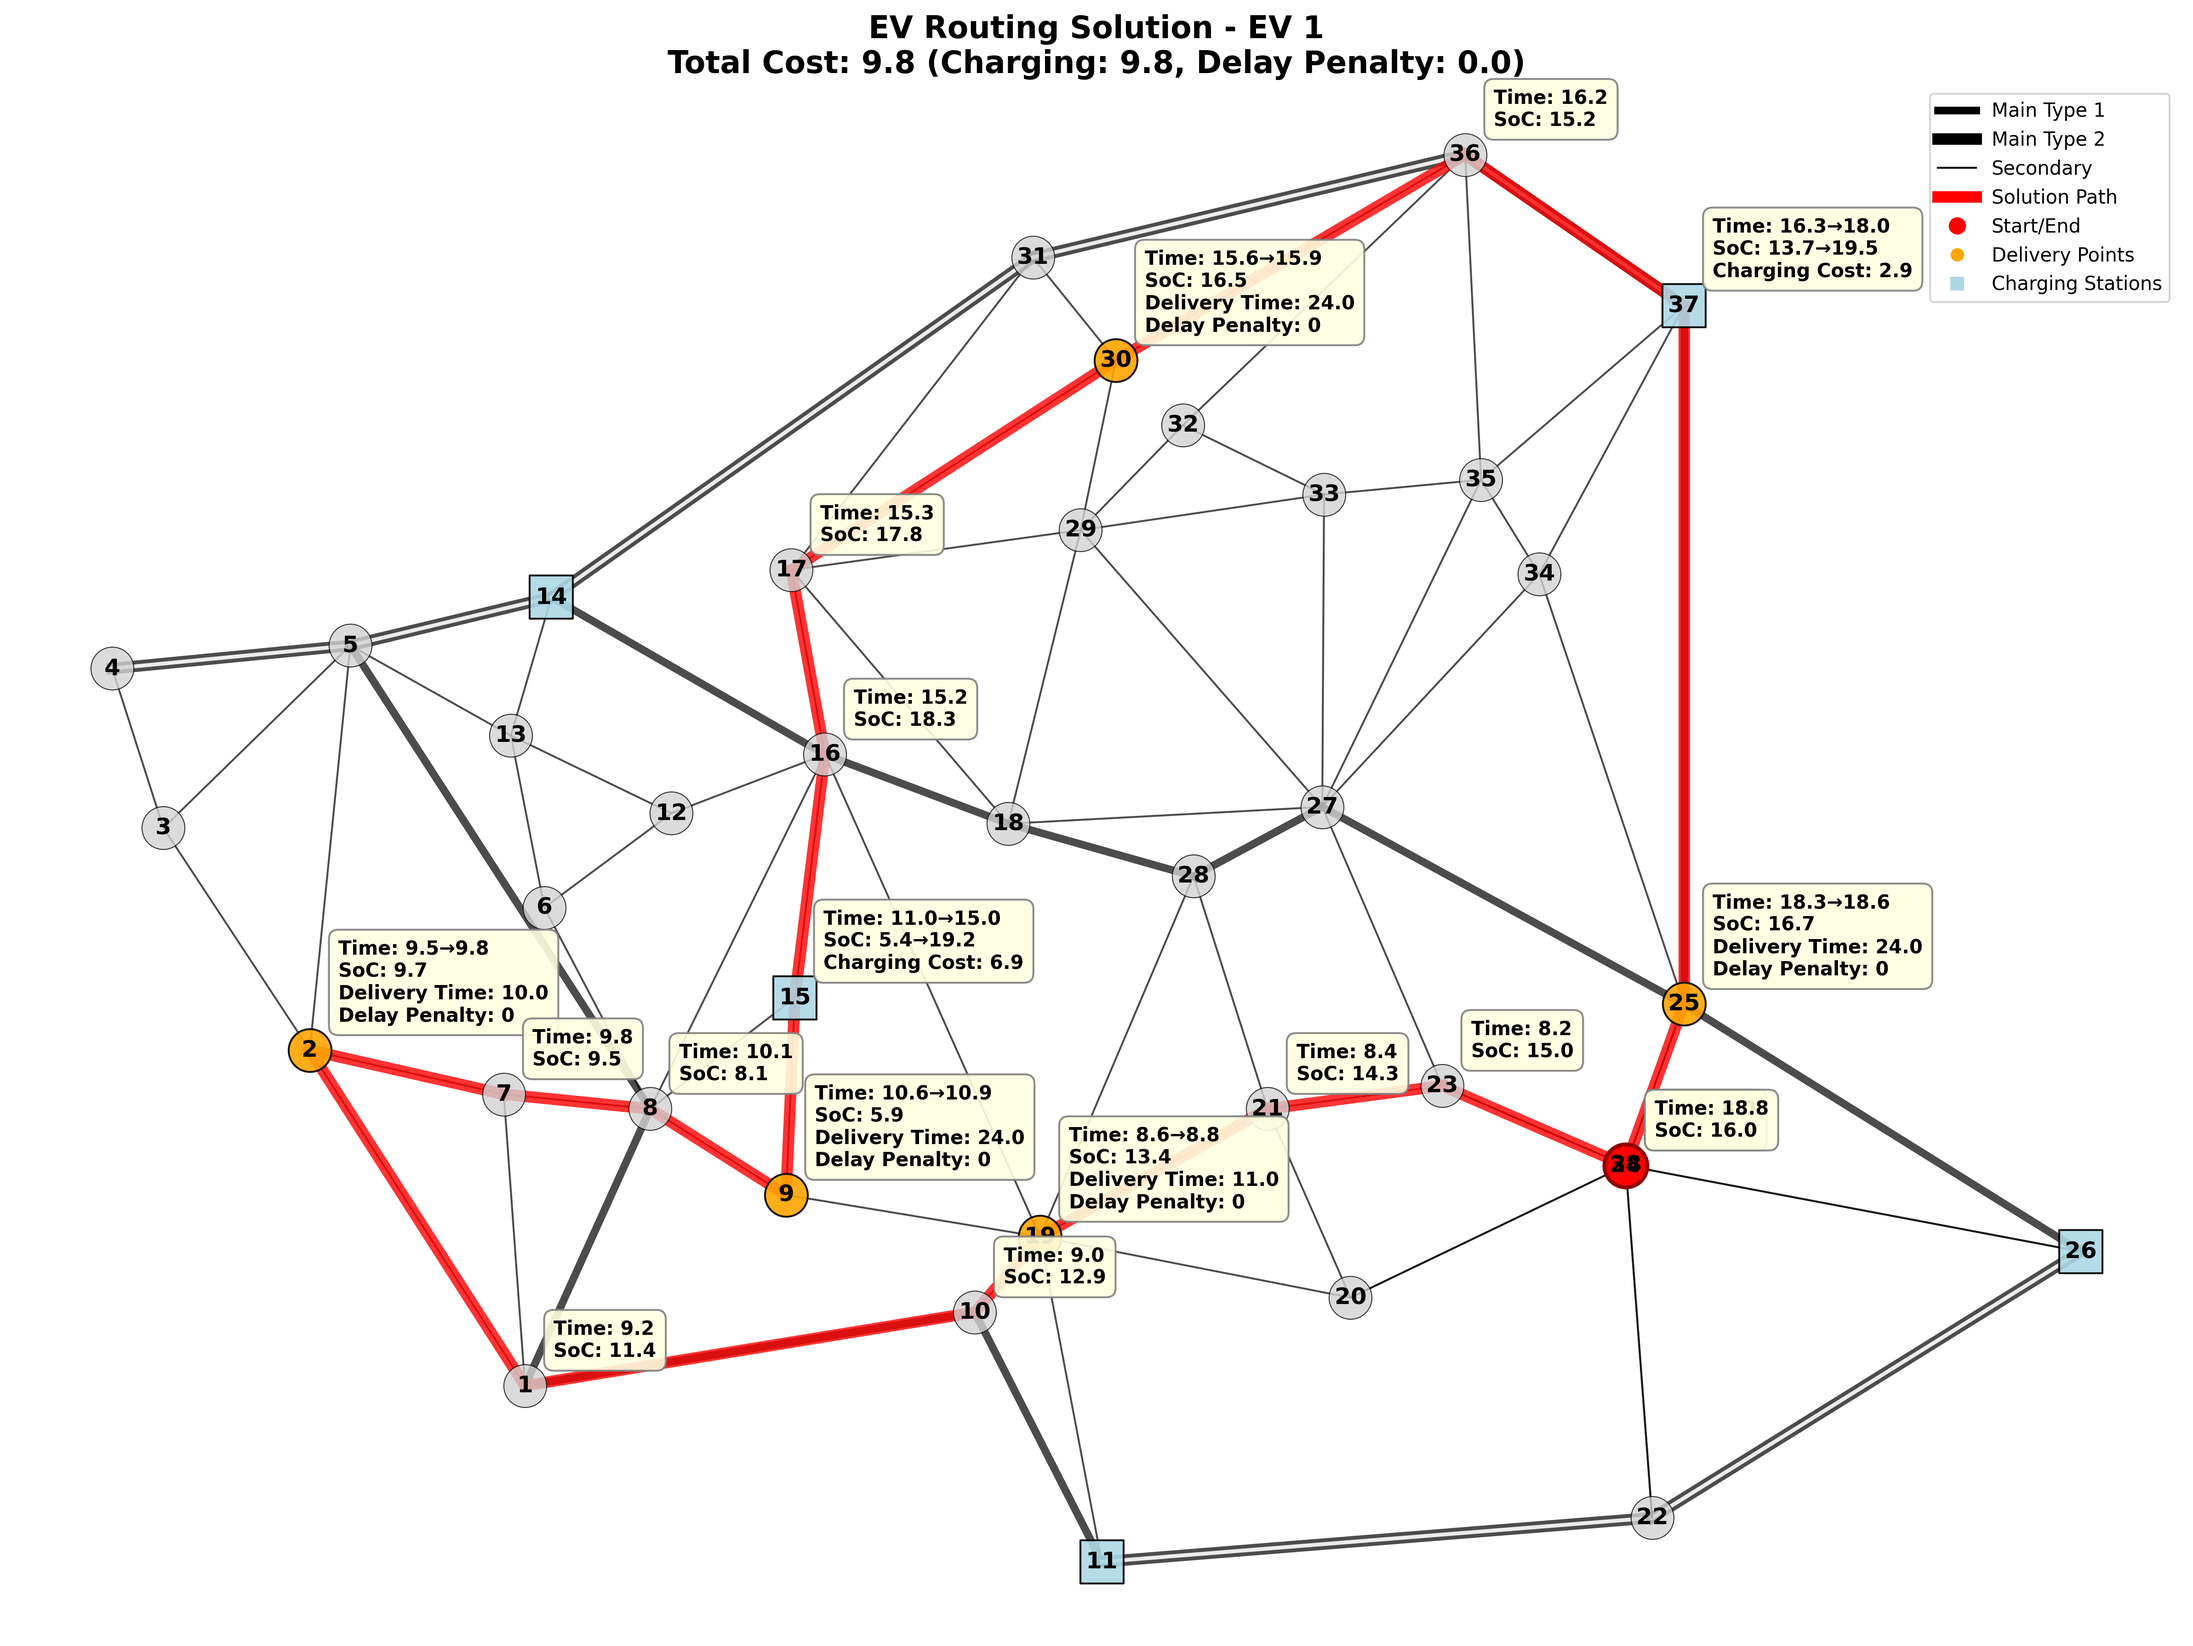
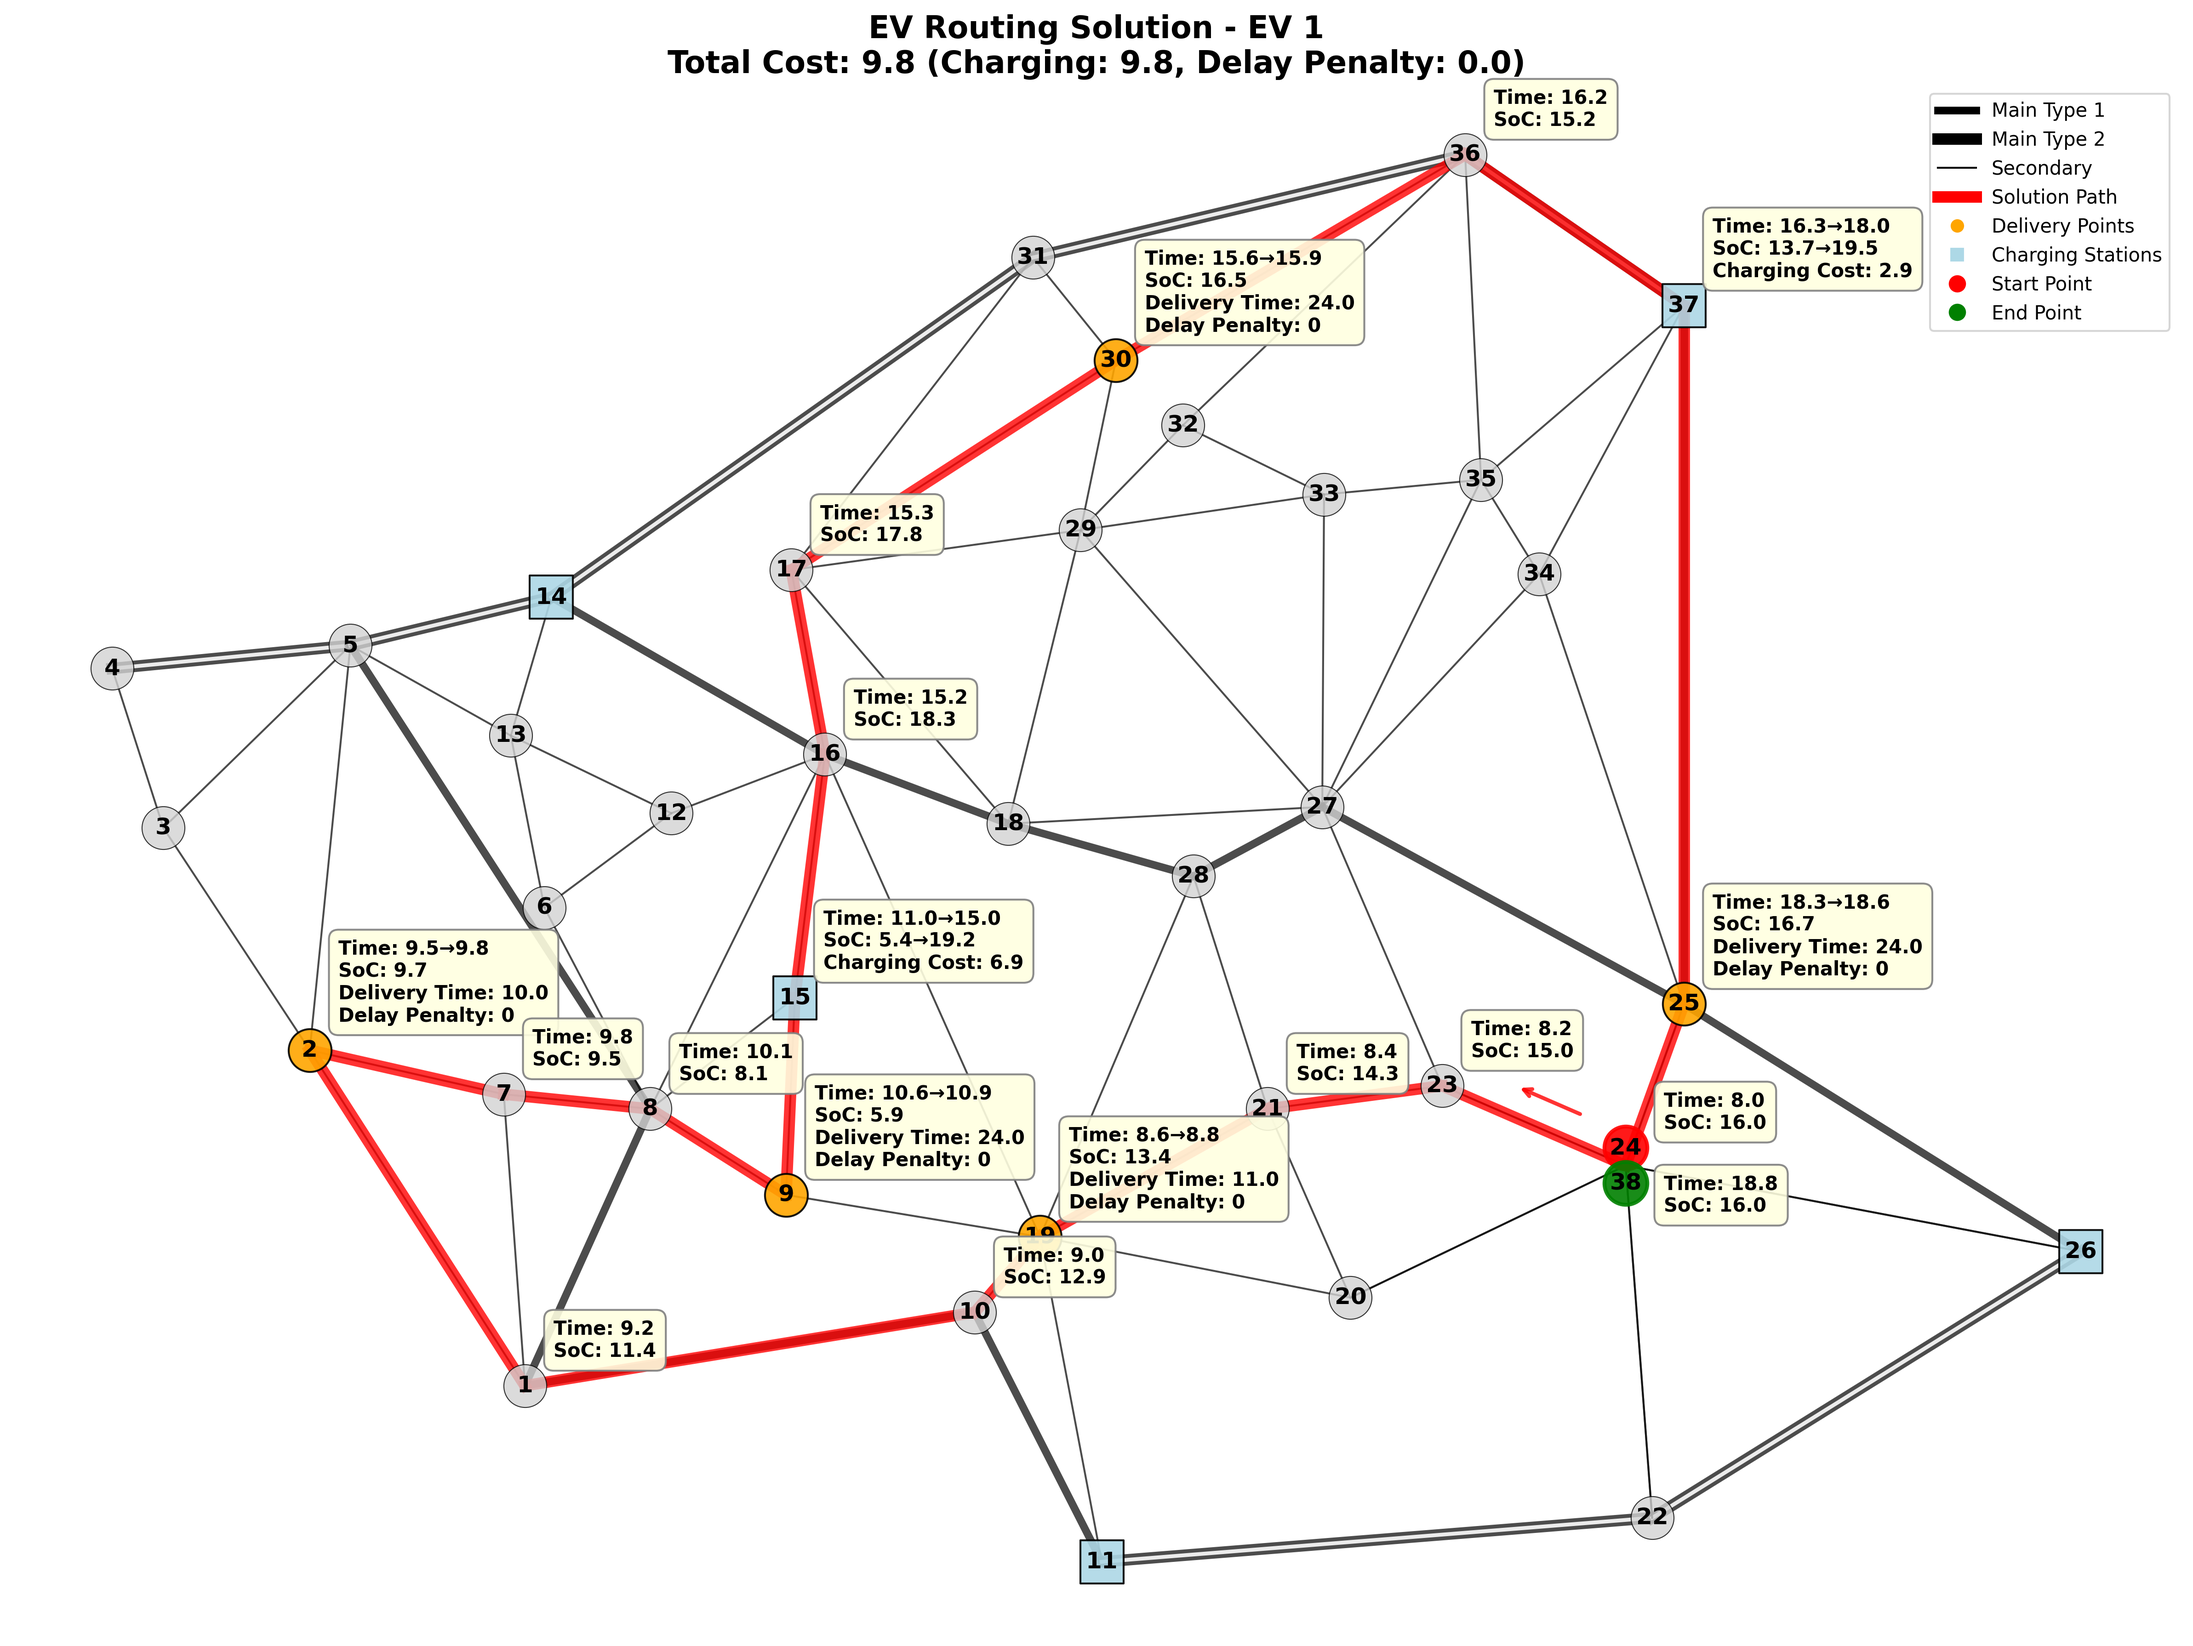
Improved map visualization

Changed region(s): [[0.7184, 0.6509, 0.8434, 0.7439], [0.8746, 0.124, 0.9996, 0.217]]

diff --git a/routing_model/save_ev_solution_data.py b/routing_model/save_ev_solution_data.py
@@ -283,30 +283,97 @@ def create_solution_map(solution_data, input_data, file_path: str, ev: int = 1, 
     start_point = paths_data['pStartingPoint'][None]
     end_point = paths_data['pEndingPoint'][None]
     
+    # Handle case where start and end points are different but at same coordinates
+    same_physical_location = False
+    modified_pos = pos.copy()  # Create a copy to modify positions if needed
+    
+    if start_point != end_point and start_point in pos and end_point in pos:
+        start_coords = pos[start_point]
+        end_coords = pos[end_point]
+        # Check if they have the same coordinates (within tolerance)
+        if abs(start_coords[0] - end_coords[0]) < 1e-6 and abs(start_coords[1] - end_coords[1]) < 1e-6:
+            same_physical_location = True
+            # Create a small offset for both points - center them around the original location
+            offset = 0.025  # Half the previous offset since we're splitting the distance
+            modified_pos[start_point] = (start_coords[0], start_coords[1] + offset)  # Start point above
+            modified_pos[end_point] = (end_coords[0], end_coords[1] - offset)  # End point below
+    
     # Draw nodes
     start_end_points = [start_point, end_point] if start_point != end_point else [start_point]
     regular_nodes = [n for n in intersections if n not in delivery_points and n not in charging_stations and n not in start_end_points]
     delivery_only = [n for n in delivery_points if n not in start_end_points]
     
     # Regular intersections
-    nx.draw_networkx_nodes(G, pos, nodelist=regular_nodes, node_color='lightgray', 
+    nx.draw_networkx_nodes(G, modified_pos, nodelist=regular_nodes, node_color='lightgray', 
                           node_size=500, alpha=0.8, edgecolors='black', linewidths=0.5)
     
     # Charging stations (exclude start/end if they are also charging stations)
     charging_only = [n for n in charging_stations if n not in start_end_points]
-    nx.draw_networkx_nodes(G, pos, nodelist=charging_only, node_color='lightblue', 
+    nx.draw_networkx_nodes(G, modified_pos, nodelist=charging_only, node_color='lightblue', 
                           node_size=500, alpha=0.9, node_shape='s', edgecolors='black', linewidths=1)
     
     # Delivery points (exclude start/end)
-    nx.draw_networkx_nodes(G, pos, nodelist=delivery_only, node_color='orange', 
+    nx.draw_networkx_nodes(G, modified_pos, nodelist=delivery_only, node_color='orange', 
                           node_size=500, alpha=0.9, edgecolors='black', linewidths=1)
     
-    # Start/End points (same node or different nodes)
-    nx.draw_networkx_nodes(G, pos, nodelist=start_end_points, node_color='red', 
-                          node_size=500, alpha=0.9, edgecolors='darkred', linewidths=2)
+    # Start/End points - handle them separately if they're at the same location
+    if start_point != end_point and same_physical_location:
+        # Draw start point
+        nx.draw_networkx_nodes(G, modified_pos, nodelist=[start_point], node_color='red', 
+                              node_size=500, alpha=0.9, edgecolors='red', linewidths=2)
+        # Draw end point with different color to distinguish
+        nx.draw_networkx_nodes(G, modified_pos, nodelist=[end_point], node_color='green', 
+                              node_size=500, alpha=0.9, edgecolors='green', linewidths=2)
+    else:
+        # Original behavior for other cases
+        nx.draw_networkx_nodes(G, modified_pos, nodelist=start_end_points, node_color='red', 
+                              node_size=500, alpha=0.9, edgecolors='darkred', linewidths=2)
     
     # Add labels for intersections
-    nx.draw_networkx_labels(G, pos, font_size=12, font_weight='bold')
+    nx.draw_networkx_labels(G, modified_pos, font_size=12, font_weight='bold')
+    
+    # Add direction arrow for the start node (showing first path direction)
+    if start_point in modified_pos:
+        # Find the first path that starts from the start point
+        first_path = None
+        for _, row in paths_df.iterrows():
+            if row['pOriginIntersection'] == start_point:
+                first_path = row
+                break
+        
+        if first_path is not None:
+            dest = first_path['pDestinationIntersection']
+            if dest in modified_pos:
+                # Calculate direction vector using REAL physical locations (not modified positions)
+                start_pos_real = pos[start_point]  # Use original position for direction calculation
+                dest_pos_real = pos[dest] if dest in pos else modified_pos[dest]  # Use original dest position if available
+                
+                # Direction vector from real start to real destination
+                dx = dest_pos_real[0] - start_pos_real[0]
+                dy = dest_pos_real[1] - start_pos_real[1]
+                
+                # Use modified position for arrow placement but real position for direction
+                start_pos_visual = modified_pos[start_point]
+                
+                # Normalize the direction vector
+                length = np.sqrt(dx**2 + dy**2)
+                if length > 0:
+                    dx_norm = dx / length
+                    dy_norm = dy / length
+                    
+                    # Position arrow close to the start node, slightly higher up
+                    arrow_offset = 0.05  # Reduced distance - closer to the node center
+                    arrow_start_x = start_pos_visual[0] + dx_norm * arrow_offset
+                    arrow_start_y = start_pos_visual[1] + dy_norm * arrow_offset + 0.02  # Slightly higher up
+                    
+                    # Much bigger arrow length (2x size)
+                    arrow_length = 0.08  # 2x bigger than the previous 0.04
+                    arrow_end_x = arrow_start_x + dx_norm * arrow_length
+                    arrow_end_y = arrow_start_y + dy_norm * arrow_length
+                    
+                    # Draw arrow
+                    plt.annotate('', xy=(arrow_end_x, arrow_end_y), xytext=(arrow_start_x, arrow_start_y),
+                               arrowprops=dict(arrowstyle='->', color='red', lw=2, alpha=0.8))
     
     # Add solution information for all visited nodes
     for _, row in intersections_df.iterrows():
@@ -359,8 +426,20 @@ def create_solution_map(solution_data, input_data, file_path: str, ev: int = 1, 
                 info_text.append("Charging Cost: 0")
         
         if info_text:
+            # Special positioning for start/end nodes at same physical location
+            if same_physical_location and intersection in [start_point, end_point]:
+                if intersection == start_point:
+                    # Position start point label to the right and slightly up
+                    xytext_offset = (20, 10)
+                else:  # end_point
+                    # Position end point label to the right and slightly down
+                    xytext_offset = (20, -15)
+            else:
+                # Default positioning for other nodes
+                xytext_offset = (15, 15)
+            
             plt.annotate('\n'.join(info_text), 
-                       xy=pos[intersection], xytext=(15, 15),
+                       xy=modified_pos[intersection], xytext=xytext_offset,
                        textcoords='offset points', fontsize=10, fontweight='bold',
                        bbox=dict(boxstyle='round,pad=0.5', facecolor='lightyellow', alpha=0.9, edgecolor='gray'))
     
@@ -396,10 +475,21 @@ def create_solution_map(solution_data, input_data, file_path: str, ev: int = 1, 
         plt.Line2D([0], [0], color='black', linewidth=6, label='Main Type 2'),
         plt.Line2D([0], [0], color='black', linewidth=1, label='Secondary'),
         plt.Line2D([0], [0], color='red', linewidth=6, label='Solution Path'),
-        plt.Line2D([0], [0], marker='o', color='w', markerfacecolor='red', markersize=10, label='Start/End'),
         plt.Line2D([0], [0], marker='o', color='w', markerfacecolor='orange', markersize=8, label='Delivery Points'),
         plt.Line2D([0], [0], marker='s', color='w', markerfacecolor='lightblue', markersize=8, label='Charging Stations')
     ]
+    
+    # Add start/end legend elements based on whether they're at same location
+    if start_point != end_point and same_physical_location:
+        legend_elements.extend([
+            plt.Line2D([0], [0], marker='o', color='w', markerfacecolor='red', markersize=10, label='Start Point'),
+            plt.Line2D([0], [0], marker='o', color='w', markerfacecolor='green', markersize=10, label='End Point')
+        ])
+    else:
+        legend_elements.append(
+            plt.Line2D([0], [0], marker='o', color='w', markerfacecolor='red', markersize=10, label='Start/End')
+        )
+    
     plt.legend(handles=legend_elements, loc='upper right')
     
     # Update title to include objective function value

diff --git a/scripts/main_routing_model.py b/scripts/main_routing_model.py
@@ -221,7 +221,7 @@ if __name__ == "__main__":
     linearize_constraints = True
     solver = "gurobi"
     # scenarios = list(range(2,1000))  # from scenario 2 to 999
-    scenarios = [10_002]
+    scenarios = [0]
     # evs = [1]
     evs = None  # Solve for all EVs
     time_limit = 15
